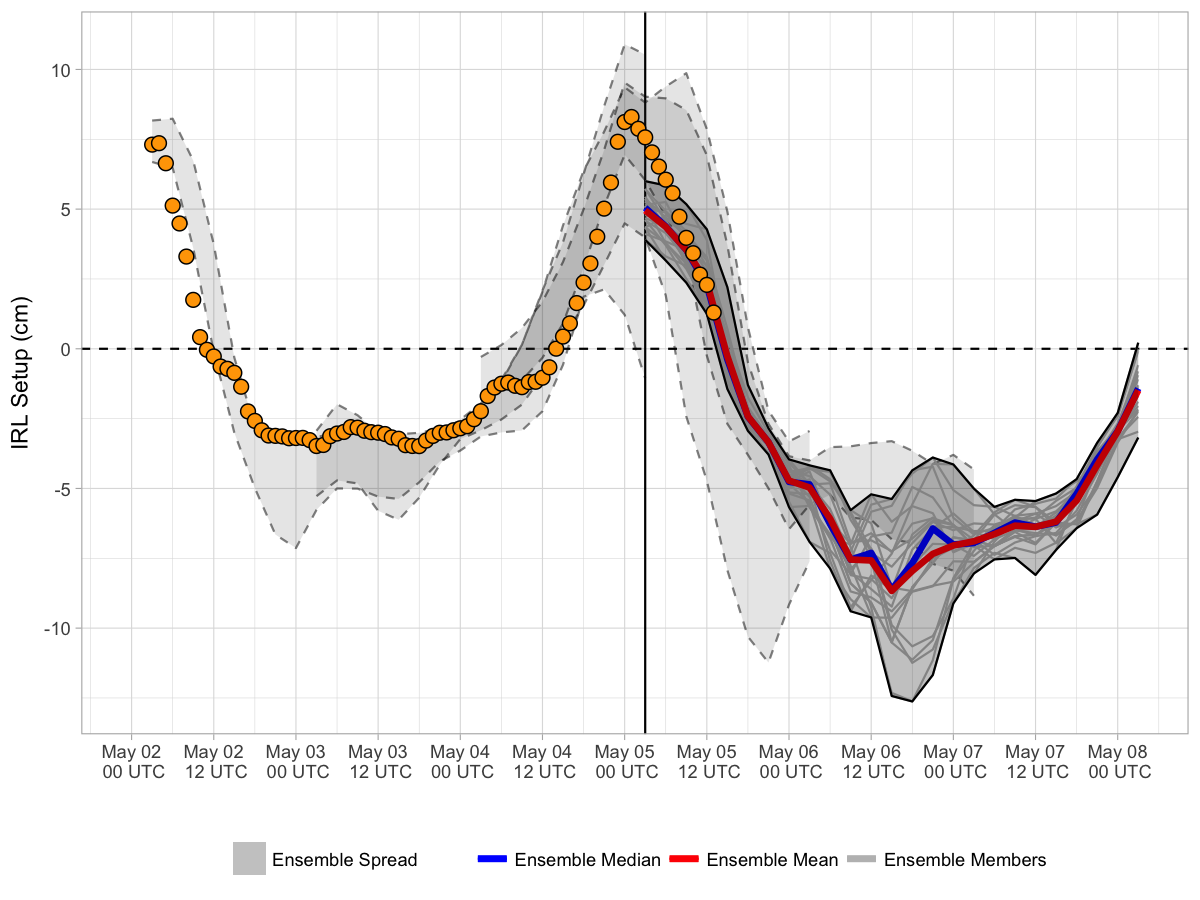
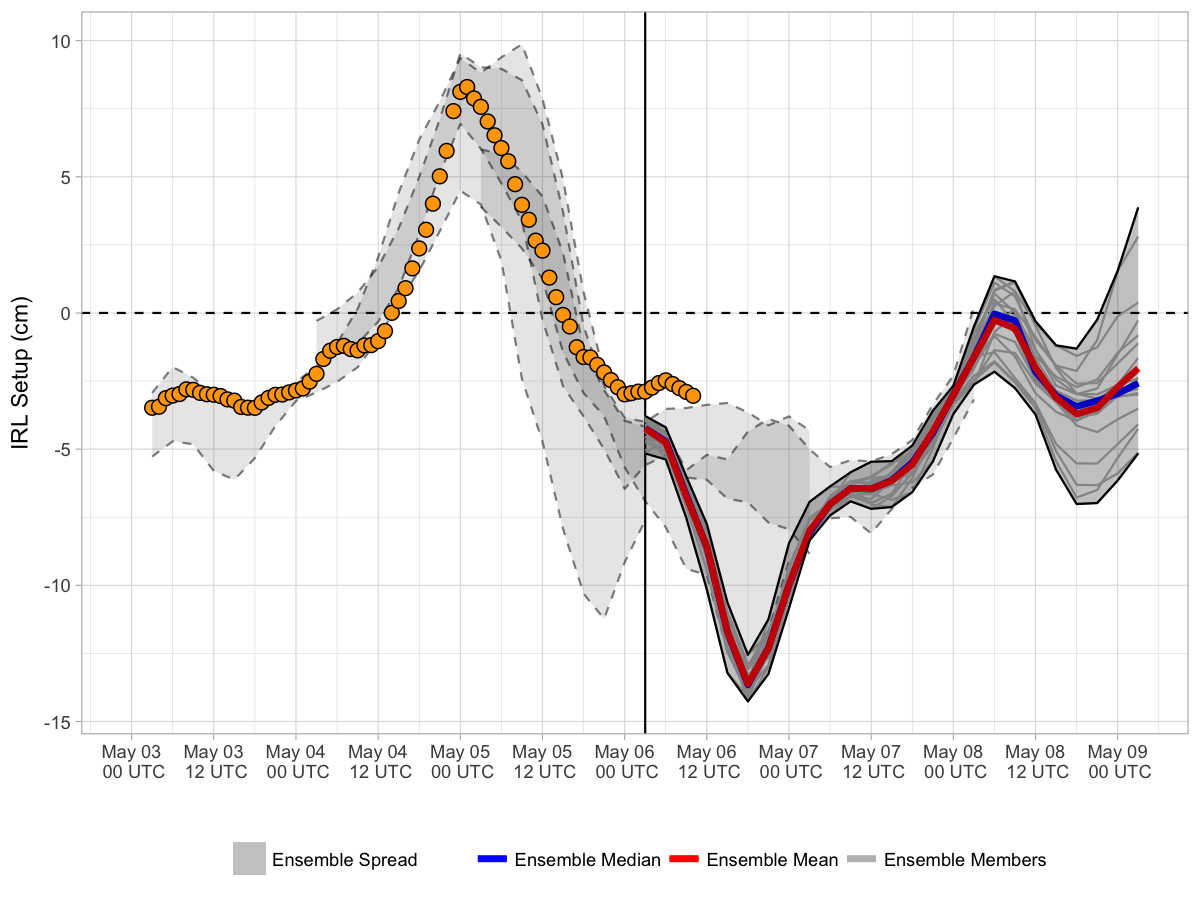
20170506 forecast update

diff --git a/docs/index.md b/docs/index.md
@@ -3,7 +3,7 @@ Current Forecast
 
 ![](img/raw_setup.png)
 
-> Forecast valid 2017-05-05 10:25:35.
+> Forecast valid 2017-05-06 06:42:53.
 
 About
 -----
